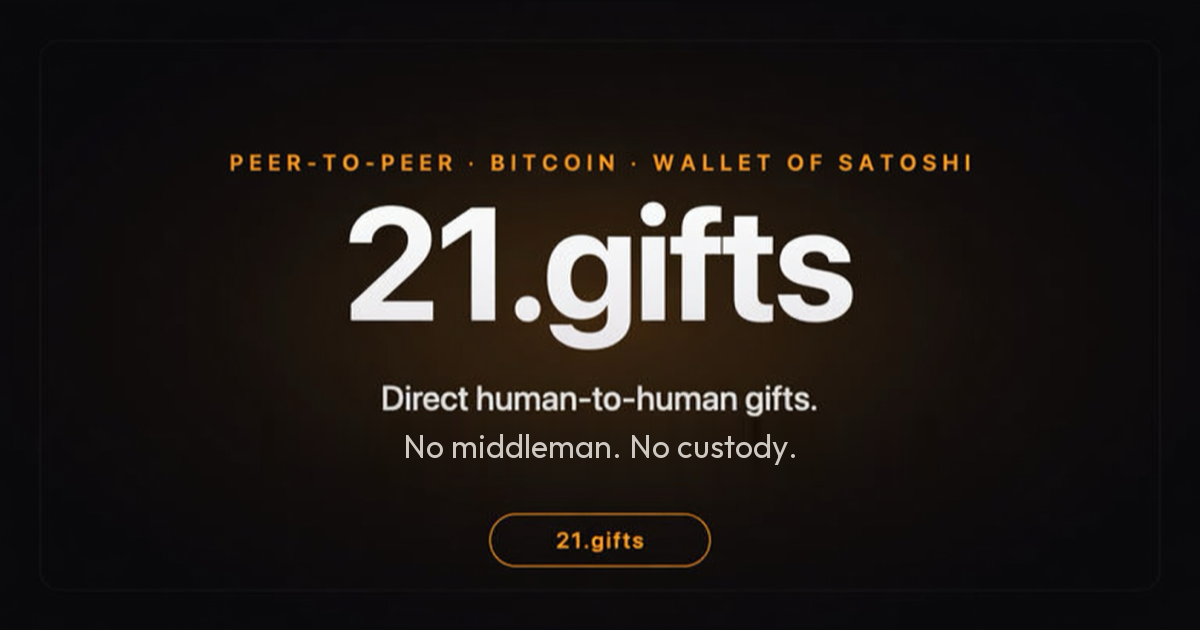
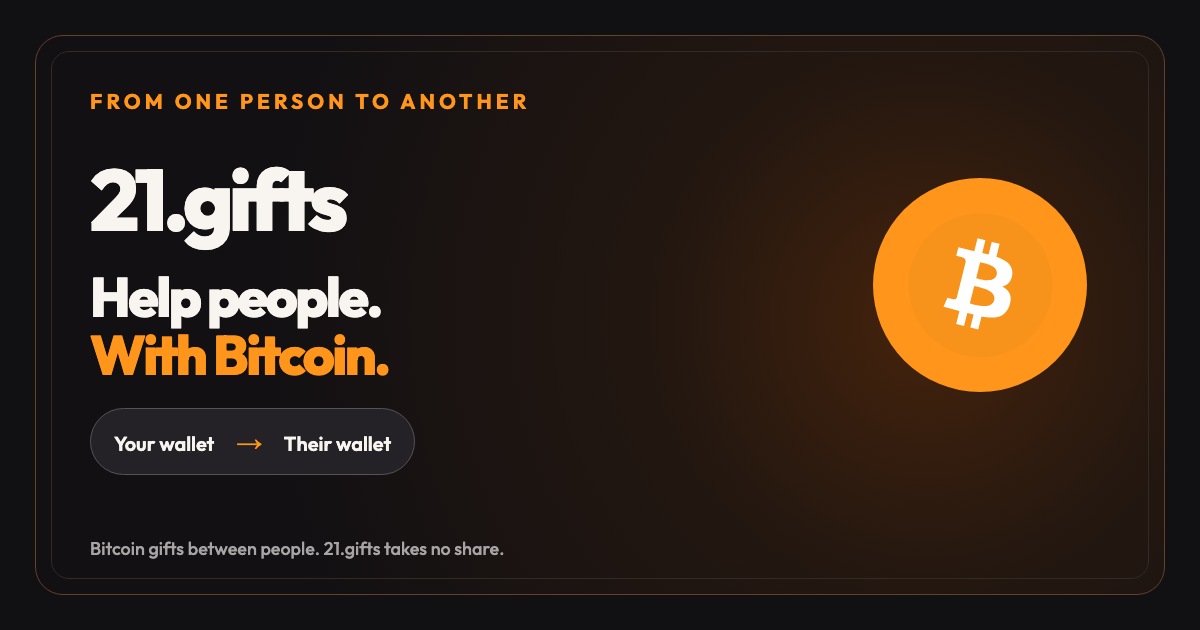
Use the redesigned social preview image again, whose alt text matches the home page

diff --git a/e2e/functions.spec.ts b/e2e/functions.spec.ts
@@ -68,9 +68,7 @@ test('Function: marketingMetadata — homepage has its own search and social tit
   const germanHtml = await german.text();
   expect(germanHtml).toContain('<title>Help people with Bitcoin | 21.gifts</title>');
   expect(germanHtml).toContain('/og.png');
-  expect(germanHtml).toContain(
-    '21.gifts: Peer-to-peer, Bitcoin, Wallet of Satoshi. Direct human-to-human gifts. No middleman. No custody.',
-  );
+  expect(germanHtml).toContain('21.gifts: Help people. With Bitcoin. Your wallet to their wallet.');
   expect(germanHtml).toContain('rel="canonical" href="https://21.gifts/de"');
   expect(germanHtml).not.toContain('/og-de.png');
 });

diff --git a/e2e/localized-public.spec.ts b/e2e/localized-public.spec.ts
@@ -157,9 +157,7 @@ test('a German URL keeps English document metadata and a German canonical', asyn
   const html = await response.text();
   expect(html).toContain('<title>Help people with Bitcoin | 21.gifts</title>');
   expect(html).toContain('/og.png');
-  expect(html).toContain(
-    '21.gifts: Peer-to-peer, Bitcoin, Wallet of Satoshi. Direct human-to-human gifts. No middleman. No custody.',
-  );
+  expect(html).toContain('21.gifts: Help people. With Bitcoin. Your wallet to their wallet.');
   expect(html).toContain('rel="canonical" href="https://21.gifts/de"');
   expect(html).not.toContain('/og-de.png');
 });

diff --git a/src/lib/marketing-metadata.ts b/src/lib/marketing-metadata.ts
@@ -5,8 +5,7 @@ import { localizedPublicPath, type LocalizedPublicPath } from '@/lib/public-loca
 /**
  * English alt text for the shared 1200×630 social preview on every URL.
  */
-export const OG_IMAGE_ALT =
-  '21.gifts: Peer-to-peer, Bitcoin, Wallet of Satoshi. Direct human-to-human gifts. No middleman. No custody.';
+export const OG_IMAGE_ALT = '21.gifts: Help people. With Bitcoin. Your wallet to their wallet.';
 
 /**
  * `hreflang` code for each UI locale.

diff --git a/docs/search-visibility.md b/docs/search-visibility.md
@@ -8,7 +8,7 @@ People write a reaction with an amount under a post in the living room, and the 
 
 - Home, About, Donate, and Rules have a stable URL per language, with a canonical and reciprocal hreflang links. Filipino pages are linked with `hreflang="tl"` because Google Search accepts only ISO 639-1 codes in hreflang and lists Filipino as `tl`; the URL stays `/fil`. Title, description, and the social preview are the same English sentences on every language URL (CONTRIBUTING, i18n catalogs). Stats, Legal, and Handbook have distinct English previews. The original unprefixed URLs still work and point canonically to the negotiated language URL. The `locale` cookie is set when the browser opens a language URL as a page, so login, stats, handbook, and legal continue in that language. Link prefetches do not set it. `LocaleRouteSync` aligns that cookie and the rendered language on an in-app navigation and when the back/forward cache restores a page, unless the account has a saved language. A browser prerender that becomes the page sets it.
 - The sitemap lists all sixteen canonical language pages plus the unprefixed `/stats`, `/legal`, and `/handbook` pages. Each localized entry includes reciprocal `hreflang` links and an `x-default` link to the corresponding legacy URL. Login and the signed-in welcome page are `noindex`.
-- One English 1200×630 preview is used on every marketing page and every language URL; a public note a member wrote with a photo keeps its own photo preview; notes from external sources use the shared preview. It is the `develop` image: the orange kicker “PEER-TO-PEER · BITCOIN · WALLET OF SATOSHI”, “21.gifts”, the subtitle “Direct human-to-human gifts. No middleman. No custody.”, and an orange-outline pill on ink.
+- One English 1200×630 preview is used on every marketing page and every language URL; a public note a member wrote with a photo keeps its own photo preview; notes from external sources use the shared preview. It shows the wallet-to-wallet path and says only that 21.gifts takes no share. The earlier “No fees” claim was too broad.
 - The eight visible FAQ answers are already rendered in the HTML. They give direct answers on account access, fees, the recipient, and how Bitcoin is used. We did not add FAQ rich-result markup: Google Search no longer shows FAQ rich results (since May 7, 2026).
 
 ## Search and advertising follow-up

diff --git a/docs/ui.md b/docs/ui.md
@@ -59,7 +59,7 @@ Closed set. Each principle is one sentence plus one implication in this codebase
 - `public/favicon.svg` — 64×64, fill `#0A090C`, text `21` at 32px/700, fill `#f7931a`. This is the only drawn brand mark in the app; the other drawn exceptions are under **Set.** in Iconography. The shop sticker's outlined sign is print artwork (see **Wordmark**).
 - `public/favicon.ico` — 48×48, same composition.
 - `public/apple-touch-icon.png` / `icon-192.png` / `icon-512.png` — ink field, orange `21`, no rounded-squircle decoration beyond what iOS applies.
-- `public/og.png` — ink, orange kicker `PEER-TO-PEER · BITCOIN · WALLET OF SATOSHI`, white `21.gifts`, subtitle, orange-outline pill. Keep.
+- `public/og.png` — 1200×630 social preview in the landing-page palette. It shows the real Bitcoin symbol and the wallet-to-wallet path; its copy does not claim that wallet or network fees are absent.
 
 ## Color
 
